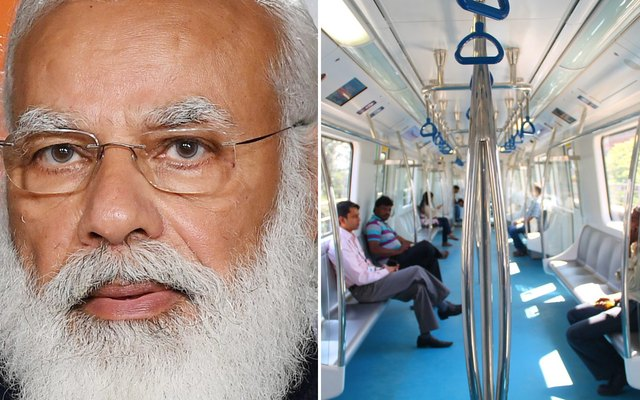
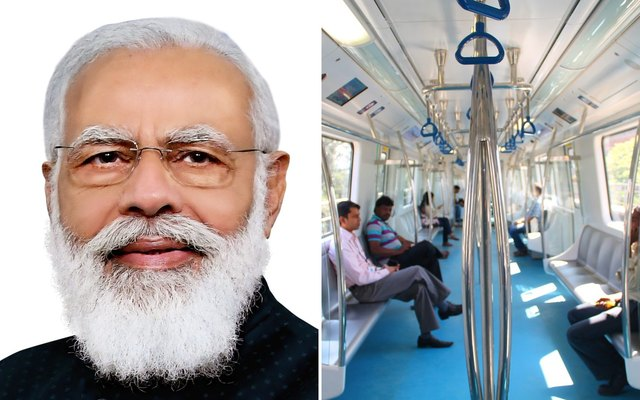
Hourly 09:00 IST: Modi's Karnataka day leads (Pink Line, Vande Bharat, Rs 15,600 crore projects, Mysuru planetarium)
Lead run, 1 story:
- modi-karnataka-gujarat-visit-today-bengaluru-mysuru-lead (LEAD; PIB release PRID 2335089 read this run; two-panel cover: Government of India portrait of Modi + Namma Metro interior, file photos). Decision: no PIB event photo yet and the library portrait was 830 px, so a lead_cover was built.
- Editor: FAIL on the first cover (tight 830 px face crop) and homepage duplicates; all fixed by the run: cover rebuilt with a 3459 px portrait, unplaced Shivakumar in-story photo deleted, Shivakumar story and Nov 12 preview dropped from the homepage, duplicate This Week line removed.
- Fixed: nbs and ecl explainers had quoted published dates, so refresh_home skipped them and startHere went stale; dates unquoted.
- Markets: Sensex 81,498 (-0.50%) and Nifty 25,120 (-0.71%) at 9:18 am, rupee 94.04, Brent 91.93.
- Holds: none new. Breaches: none (GATE: PASS). Note: the 6:12 am lead had passed 2 hours before this run (the 7 am run published nothing).

Claude-Session: https://claude.ai/code/session_01C3zerV5V2twjKK45woMKC3

diff --git a/content/hi/news/modi-karnataka-gujarat-visit-today-bengaluru-mysuru-lead.md b/content/hi/news/modi-karnataka-gujarat-visit-today-bengaluru-mysuru-lead.md
@@ -96,10 +96,6 @@ verification:
 
 दौरे की घोषणा 11 नवंबर की विज्ञप्ति में हुई थी, और हमारी [पहली रिपोर्ट](/hi/news/modi-karnataka-gujarat-visit-november-13-14-15600-crore-projects-preview) में पूरी सूची दी गई थी। कर्नाटक सरकार सार्वजनिक रूप से तैयारी करती रही है। गुरुवार को मुख्यमंत्री डी के शिवकुमार ने बेंगलुरु में पत्रकारों से कहा कि राज्य **प्रधानमंत्री का सम्मान के साथ स्वागत करेगा**, और जोड़ा: "We will certainly raise the issues." (हम मुद्दे जरूर उठाएंगे)। सूखा राहत और धन मांगने के सवाल पर उन्होंने "Definitely" कहा, पर ब्योरा नहीं दिया। उन्होंने कहा कि जिस निजी मुलाकात का उन्होंने समय मांगा है, उसके लिए मोदी ने उन्हें दिल्ली आने को कहा है; तारीख नहीं बताई गई। केंद्र को भेजी जा चुकी मांगों, बेंगलुरु पैकेज से सिंचाई मंजूरियों और चीनी के न्यूनतम बिक्री मूल्य तक, का ब्योरा हमारी [उन टिप्पणियों की रिपोर्ट](/hi/news/shivakumar-modi-visit-bengaluru-welcome-drought-relief-private-meeting) में है।
 
-```photo
-{"n":2,"subject":"D. K. Shivakumar","caption":"कर्नाटक के मुख्यमंत्री डी के शिवकुमार, जिन्होंने कहा कि राज्य अपने मुद्दे प्रधानमंत्री के सामने रखेगा।","alt":"कर्नाटक के मुख्यमंत्री डी के शिवकुमार"}
-```
-
 एक दिन पहले, गुरुवार को दिल्ली के भारत कृषि सम्मेलन में मोदी ने किसानों से रसायनों का इस्तेमाल घटाने को कहा था, जैसा हमारी [प्राकृतिक खेती की रिपोर्ट](/hi/news/modi-bharat-agriculture-conference-natural-farming-mother-earth-fertiliser) में है।
 
 ## यह क्यों मायने रखता है

diff --git a/content/hi/explainer/ecl-explained-rbi-expected-credit-loss-banks-april-2027.md b/content/hi/explainer/ecl-explained-rbi-expected-credit-loss-banks-april-2027.md
@@ -8,7 +8,7 @@ format_label: "समझिए / बैंकिंग"
 topics: [economy]
 title: "एक्सपेक्टेड क्रेडिट लॉस क्या है: आरबीआई के नए नियम बैंकों के डूबे कर्ज के प्रावधान का तरीका कैसे बदलेंगे"
 standfirst: "रिजर्व बैंक आज बैंक प्रमुखों से 1 अप्रैल 2027 से लागू होने वाले एक्सपेक्टेड क्रेडिट लॉस ढांचे पर बात कर रहा है, और अकेले भारतीय स्टेट बैंक का अनुमान है कि एकमुश्त असर ₹19,500 करोड़ का होगा। क्या बदलता है, बैंक क्यों चिंतित हैं, और कर्जदारों पर क्या असर होगा।"
-published: "2026-11-12T17:50:07+05:30"
+published: 2026-11-12T17:50:07+05:30
 shortAnswer: "एक्सपेक्टेड क्रेडिट लॉस (ईसीएल) कर्ज के खराब होने से पहले ही उसके लिए पैसा अलग रखने का तरीका है। अभी भारतीय बैंक मुख्य रूप से तब प्रावधान करते हैं जब कर्जदार भुगतान रोक देता है। आरबीआई के 27 अप्रैल 2026 के निर्देशों के तहत 1 अप्रैल 2027 से उन्हें हर कर्ज के लिए पहले से नुकसान का अनुमान लगाकर पहले दिन से प्रावधान करना होगा। एकमुश्त खर्च बड़ा है, सार्वजनिक क्षेत्र के बैंक हर एक के लिए ₹3,000 करोड़ से ₹19,500 करोड़ तक का अनुमान दे रहे हैं, लेकिन आरबीआई पूंजी पर असर को चार साल में बांटने की छूट देता है।"
 hero:
   need: "मुंबई में भारतीय रिजर्व बैंक का मुख्यालय, जहां प्रावधान के नए निर्देश जारी हुए"

diff --git a/content/hi/explainer/nbs-explained-fertiliser-subsidy-rabi-2026-27-dap-urea.md b/content/hi/explainer/nbs-explained-fertiliser-subsidy-rabi-2026-27-dap-urea.md
@@ -8,7 +8,7 @@ format_label: "समझिए / कृषि"
 topics: [agriculture-msp, economy]
 title: "उर्वरक सब्सिडी समझिए: पोषक तत्व आधारित सब्सिडी कैसे काम करती है और रबी का बिल 64% क्यों बढ़ा"
 standfirst: "मंत्रिमंडल ने अक्टूबर 2026 से मार्च 2027 के लिए फास्फेटिक और पोटाशिक उर्वरकों पर ₹62,370 करोड़ मंजूर किए हैं, जो पिछले रबी से ₹24,418 करोड़ ज्यादा है, जबकि डीएपी का एक बैग ₹1,350 पर ही रहेगा। कौन कितना देता है, और विदेशी कीमतें इतनी मायने क्यों रखती हैं।"
-published: "2026-11-12T17:50:07+05:30"
+published: 2026-11-12T17:50:07+05:30
 shortAnswer: "भारत फास्फेटिक और पोटाशिक (पी एंड के) उर्वरकों, जैसे डीएपी, के हर किलो पोषक तत्व पर उर्वरक कंपनियों और आयातकों को तय सब्सिडी देता है, ताकि किसान उन्हें स्थिर कीमत पर खरीद सकें। यही पोषक तत्व आधारित सब्सिडी (एनबीएस) है। 1 अक्टूबर 2026 से 31 मार्च 2027 के रबी सीजन के लिए मंत्रिमंडल ने इसे ₹62,370 करोड़ तय किया है, जो एक साल पहले ₹37,952 करोड़ था, क्योंकि वैश्विक कीमतें बढ़ी हैं। यूरिया इस योजना के बाहर है और उसकी खेत में कीमत अलग से तय है।"
 hero:
   need: "रबी की बुवाई के मौसम में उर्वरक के बैग लेते किसान"

diff --git a/content/en/news/modi-karnataka-gujarat-visit-today-bengaluru-mysuru-lead.md b/content/en/news/modi-karnataka-gujarat-visit-today-bengaluru-mysuru-lead.md
@@ -99,10 +99,6 @@ The COSMOS-Mysuru Planetarium, built by the Indian Institute of Astrophysics on 
 
 The visit was announced in the release of November 11, and our [first report](/en/news/modi-karnataka-gujarat-visit-november-13-14-15600-crore-projects-preview) set out the full list. Karnataka's government has been preparing for it in public. On Thursday, Chief Minister D K Shivakumar told reporters in Bengaluru that the state would **welcome the Prime Minister respectfully**, and added: "We will certainly raise the issues." Asked whether he would seek drought relief and funds, he said "Definitely", but would not give details. He said Modi had asked him to come to Delhi for the private meeting he had sought; no date has been given. Our [report on those remarks](/en/news/shivakumar-modi-visit-bengaluru-welcome-drought-relief-private-meeting) has the demands already sent to the Centre, from a Bengaluru package to irrigation clearances and the sugar minimum selling price.
 
-```photo
-{"n":2,"subject":"D. K. Shivakumar","caption":"Karnataka Chief Minister D K Shivakumar, who said the state will place its issues before the Prime Minister.","alt":"Karnataka Chief Minister D K Shivakumar"}
-```
-
 The day before, at the Bharat Agriculture Conference in Delhi on Thursday, Modi urged farmers to cut chemical use, as set out in our [report on natural farming](/en/news/modi-bharat-agriculture-conference-natural-farming-mother-earth-fertiliser).
 
 ## Why it matters

diff --git a/content/en/explainer/ecl-explained-rbi-expected-credit-loss-banks-april-2027.md b/content/en/explainer/ecl-explained-rbi-expected-credit-loss-banks-april-2027.md
@@ -7,7 +7,7 @@ format_label: "Explained / Banking"
 topics: [economy]
 title: "Expected credit loss explained: how the RBI's new rules will change the way banks provision for bad loans"
 standfirst: "The Reserve Bank is meeting bank chiefs on the expected credit loss framework that starts on April 1, 2027, and State Bank of India alone puts the one-time hit at ₹19,500 crore. What changes, why banks are worried, and what it means for borrowers."
-published: "2026-11-12T17:50:07+05:30"
+published: 2026-11-12T17:50:07+05:30
 shortAnswer: "Expected credit loss (ECL) is a way of setting aside money for loans before they go bad. Today Indian banks provide mainly after a borrower has stopped paying. From April 1, 2027, under the RBI's directions of April 27, 2026, they must estimate losses in advance, loan by loan, and provide for them from day one. The one-time cost is large, with public sector banks estimating ₹3,000 crore to ₹19,500 crore each, but the RBI lets banks spread the capital impact over four years."
 hero:
   need: "Reserve Bank of India headquarters in Mumbai, where the new provisioning directions were issued"

diff --git a/content/en/explainer/nbs-explained-fertiliser-subsidy-rabi-2026-27-dap-urea.md b/content/en/explainer/nbs-explained-fertiliser-subsidy-rabi-2026-27-dap-urea.md
@@ -7,7 +7,7 @@ format_label: "Explained / Agriculture"
 topics: [agriculture-msp, economy]
 title: "Fertiliser subsidy explained: how the nutrient-based subsidy works and why the rabi bill jumped 64%"
 standfirst: "The Cabinet has approved ₹62,370 crore for phosphatic and potassic fertilisers for October 2026 to March 2027, ₹24,418 crore more than last rabi, while a bag of DAP stays at ₹1,350. Who pays what, and why prices abroad matter so much."
-published: "2026-11-12T17:50:07+05:30"
+published: 2026-11-12T17:50:07+05:30
 shortAnswer: "India pays fertiliser makers and importers a fixed subsidy on every kilogram of nutrient in phosphatic and potassic (P&K) fertilisers such as DAP, so that farmers can buy them at a steady price. This is the nutrient-based subsidy (NBS). For the rabi season from October 1, 2026, to March 31, 2027, the Cabinet set it at ₹62,370 crore, up from ₹37,952 crore a year earlier, because global prices have risen. Urea is outside this scheme and has its own fixed farm price."
 hero:
   need: "Farmers buying fertiliser bags during the rabi sowing season"
